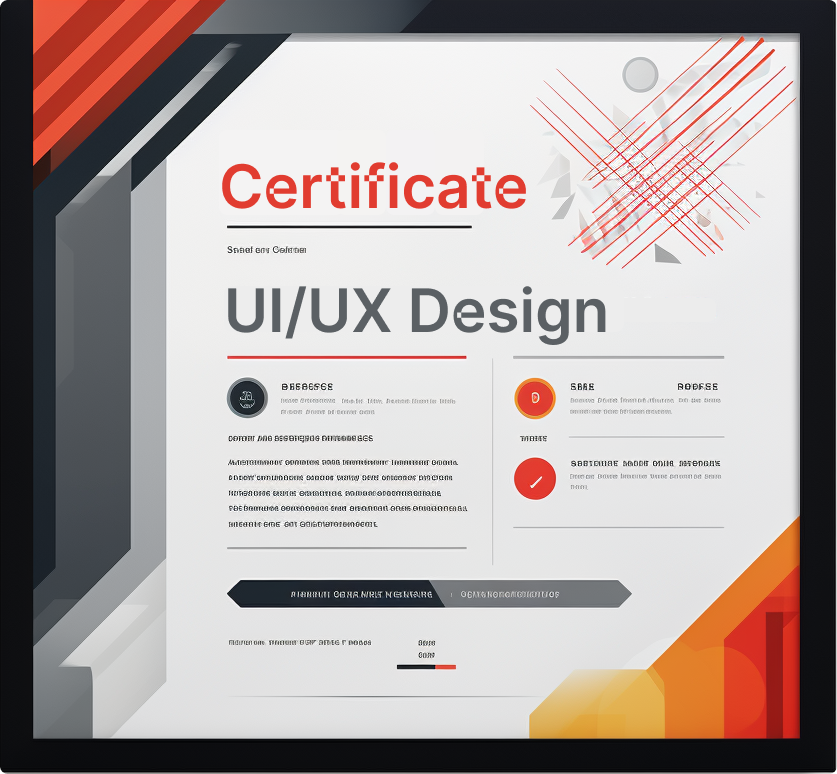
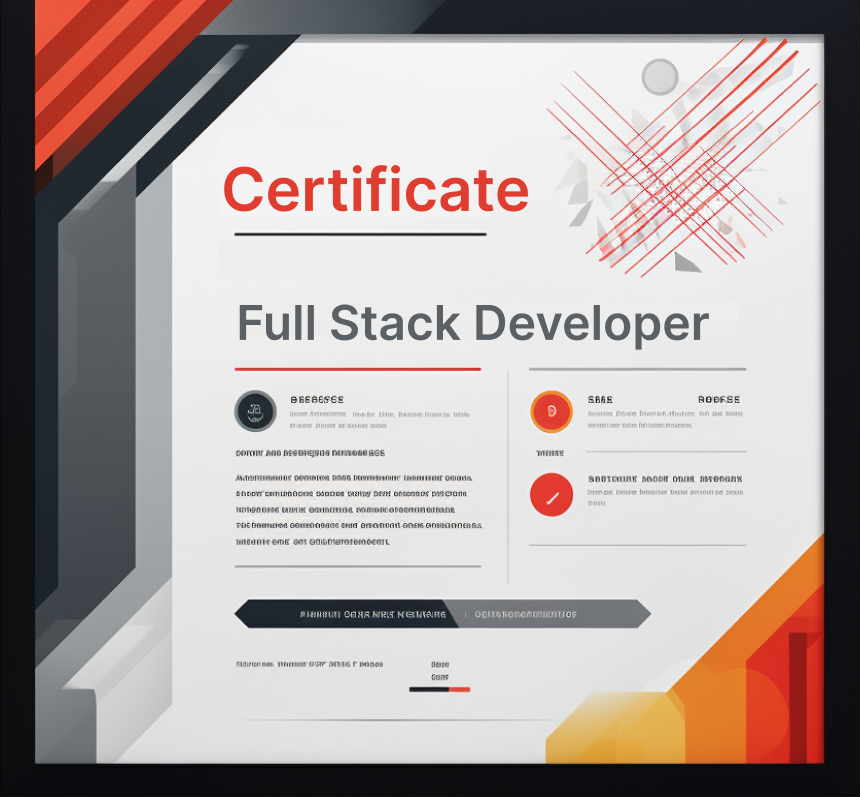
title and certificate updated

diff --git a/public/index.html b/public/index.html
@@ -2,7 +2,7 @@
 <html lang="en">
   <head>
     <meta charset="utf-8" />
-    <title>UpskillMafia</title>
+    <title>MERN Stack - Upskill Mafia</title>
     <link rel="icon" href="%PUBLIC_URL%/favicon.ico" />
     <meta property="og:image" content="%PUBLIC_URL%/fav.png" />
     <meta name="viewport" content="width=device-width, initial-scale=1" />
@@ -13,12 +13,14 @@
     <meta name="theme-color" content="#000" />
     <meta
       name="description"
-      content="Join the Free UI/UX Design Community and Master UI/UX Design With Your Peers For Free with Exclusive content. Participate in Hackathons win prizes worth upto 10k"
+      content="Join the Free MERN Stack and Full Stack Development Courses. Learn MongoDB, Express.js, React, Node.js, and more with your peers for free. Exclusive content, coding bootcamps,Free Mentorships and the chance to participate in hackathons with prizes worth up to 6k."
     />
+
     <meta
       name="keywords"
-      content="upskillmafia, UI/UX design, uiux design, ui ux, ui/ux, design community, free ui/ux course, peer learning, design hackathons"
+      content="mern stack development, full stack development, web development course, MongoDB, Express.js, React, Node.js, MERN course, full stack course, coding bootcamp, web development training, learn web development, free course"
     />
+
     <!-- <link rel="manifest" href="%PUBLIC_URL%/manifest.json" /> -->
     <meta
       name="facebook-domain-verification"
